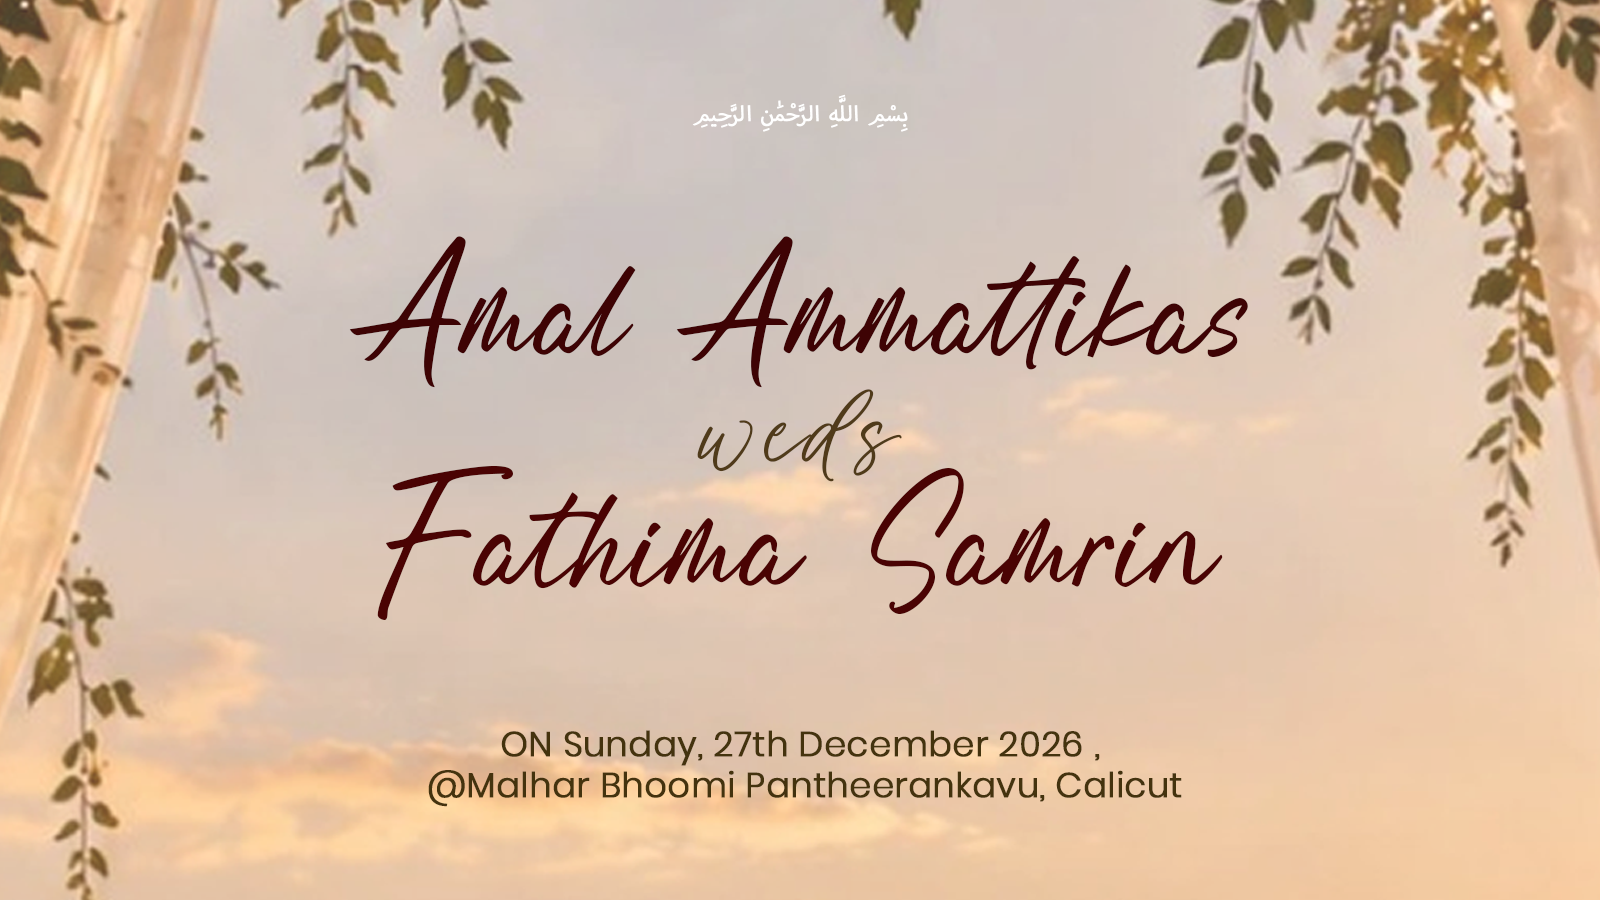
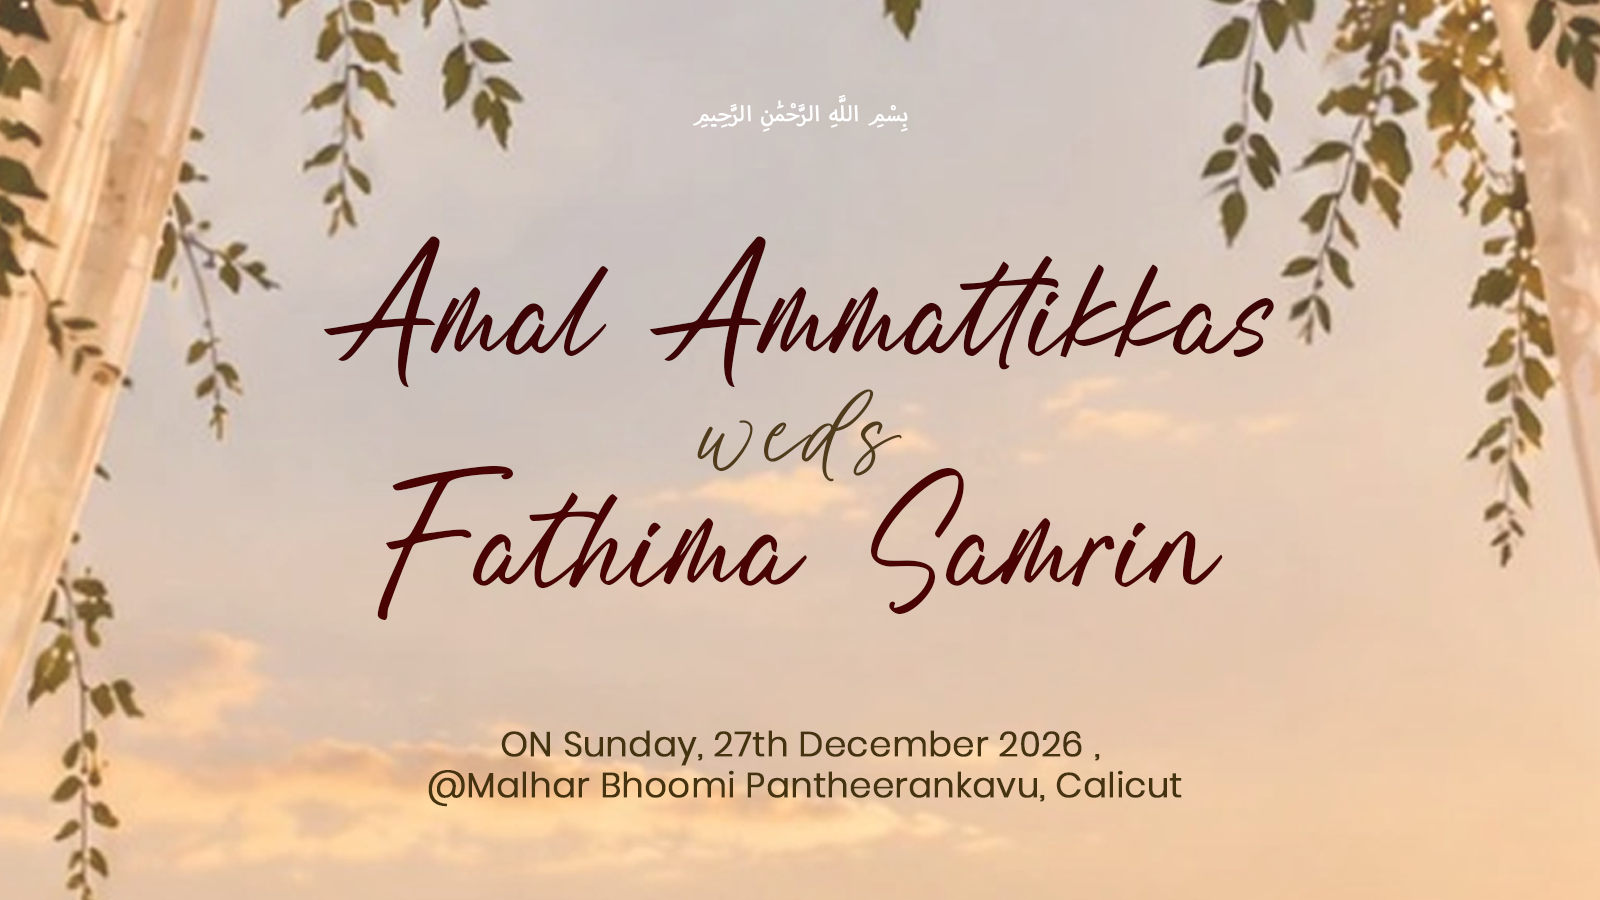
Fix spelling of Ammattikkas

Changed region(s): [[0.1875, 0.2489, 0.8125, 0.4356]]

diff --git a/src/App.jsx b/src/App.jsx
@@ -281,8 +281,8 @@ function App() {
                 <div className="family-grid">
                   <FamilyCard
                     tone="dahlia"
-                    name="Amal Ammattikas"
-                    house="Ammattikas House"
+                    name="Amal Ammattikkas"
+                    house="Ammattikkas House"
                     relation="Son of"
                     parents="PK Abdul Jabbar & Rahmath K"
                     grandRelation="Grandson of"
